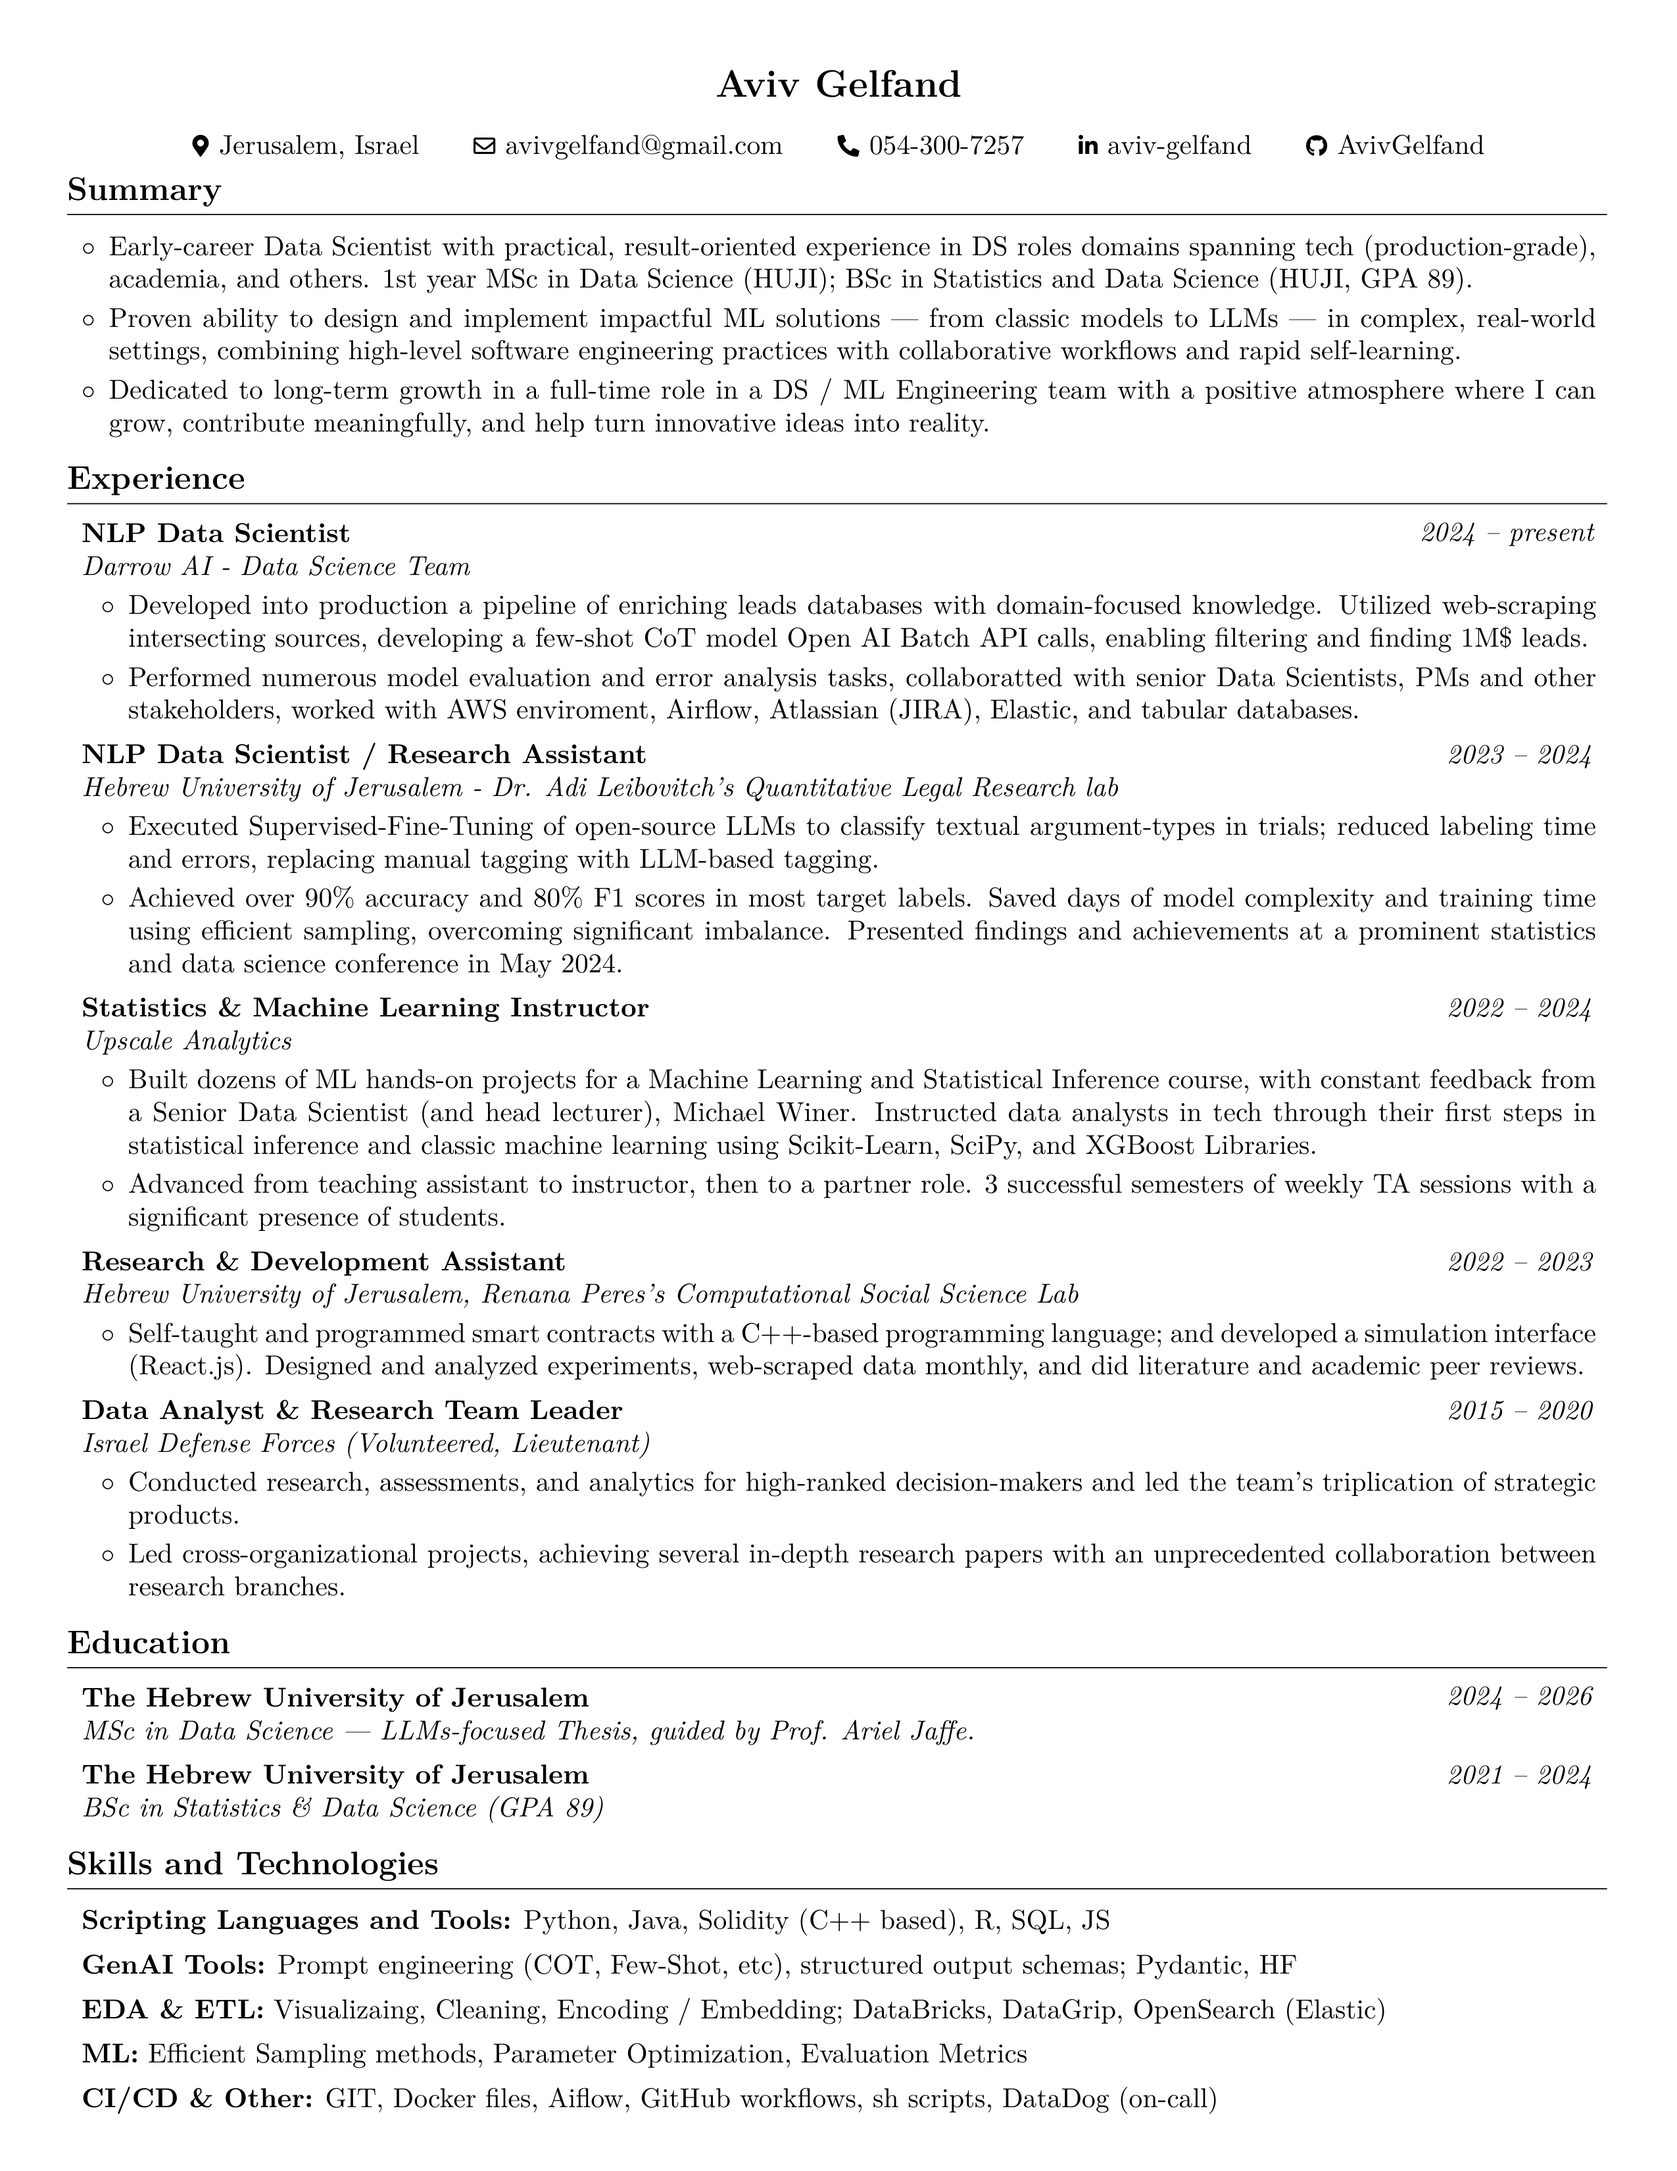
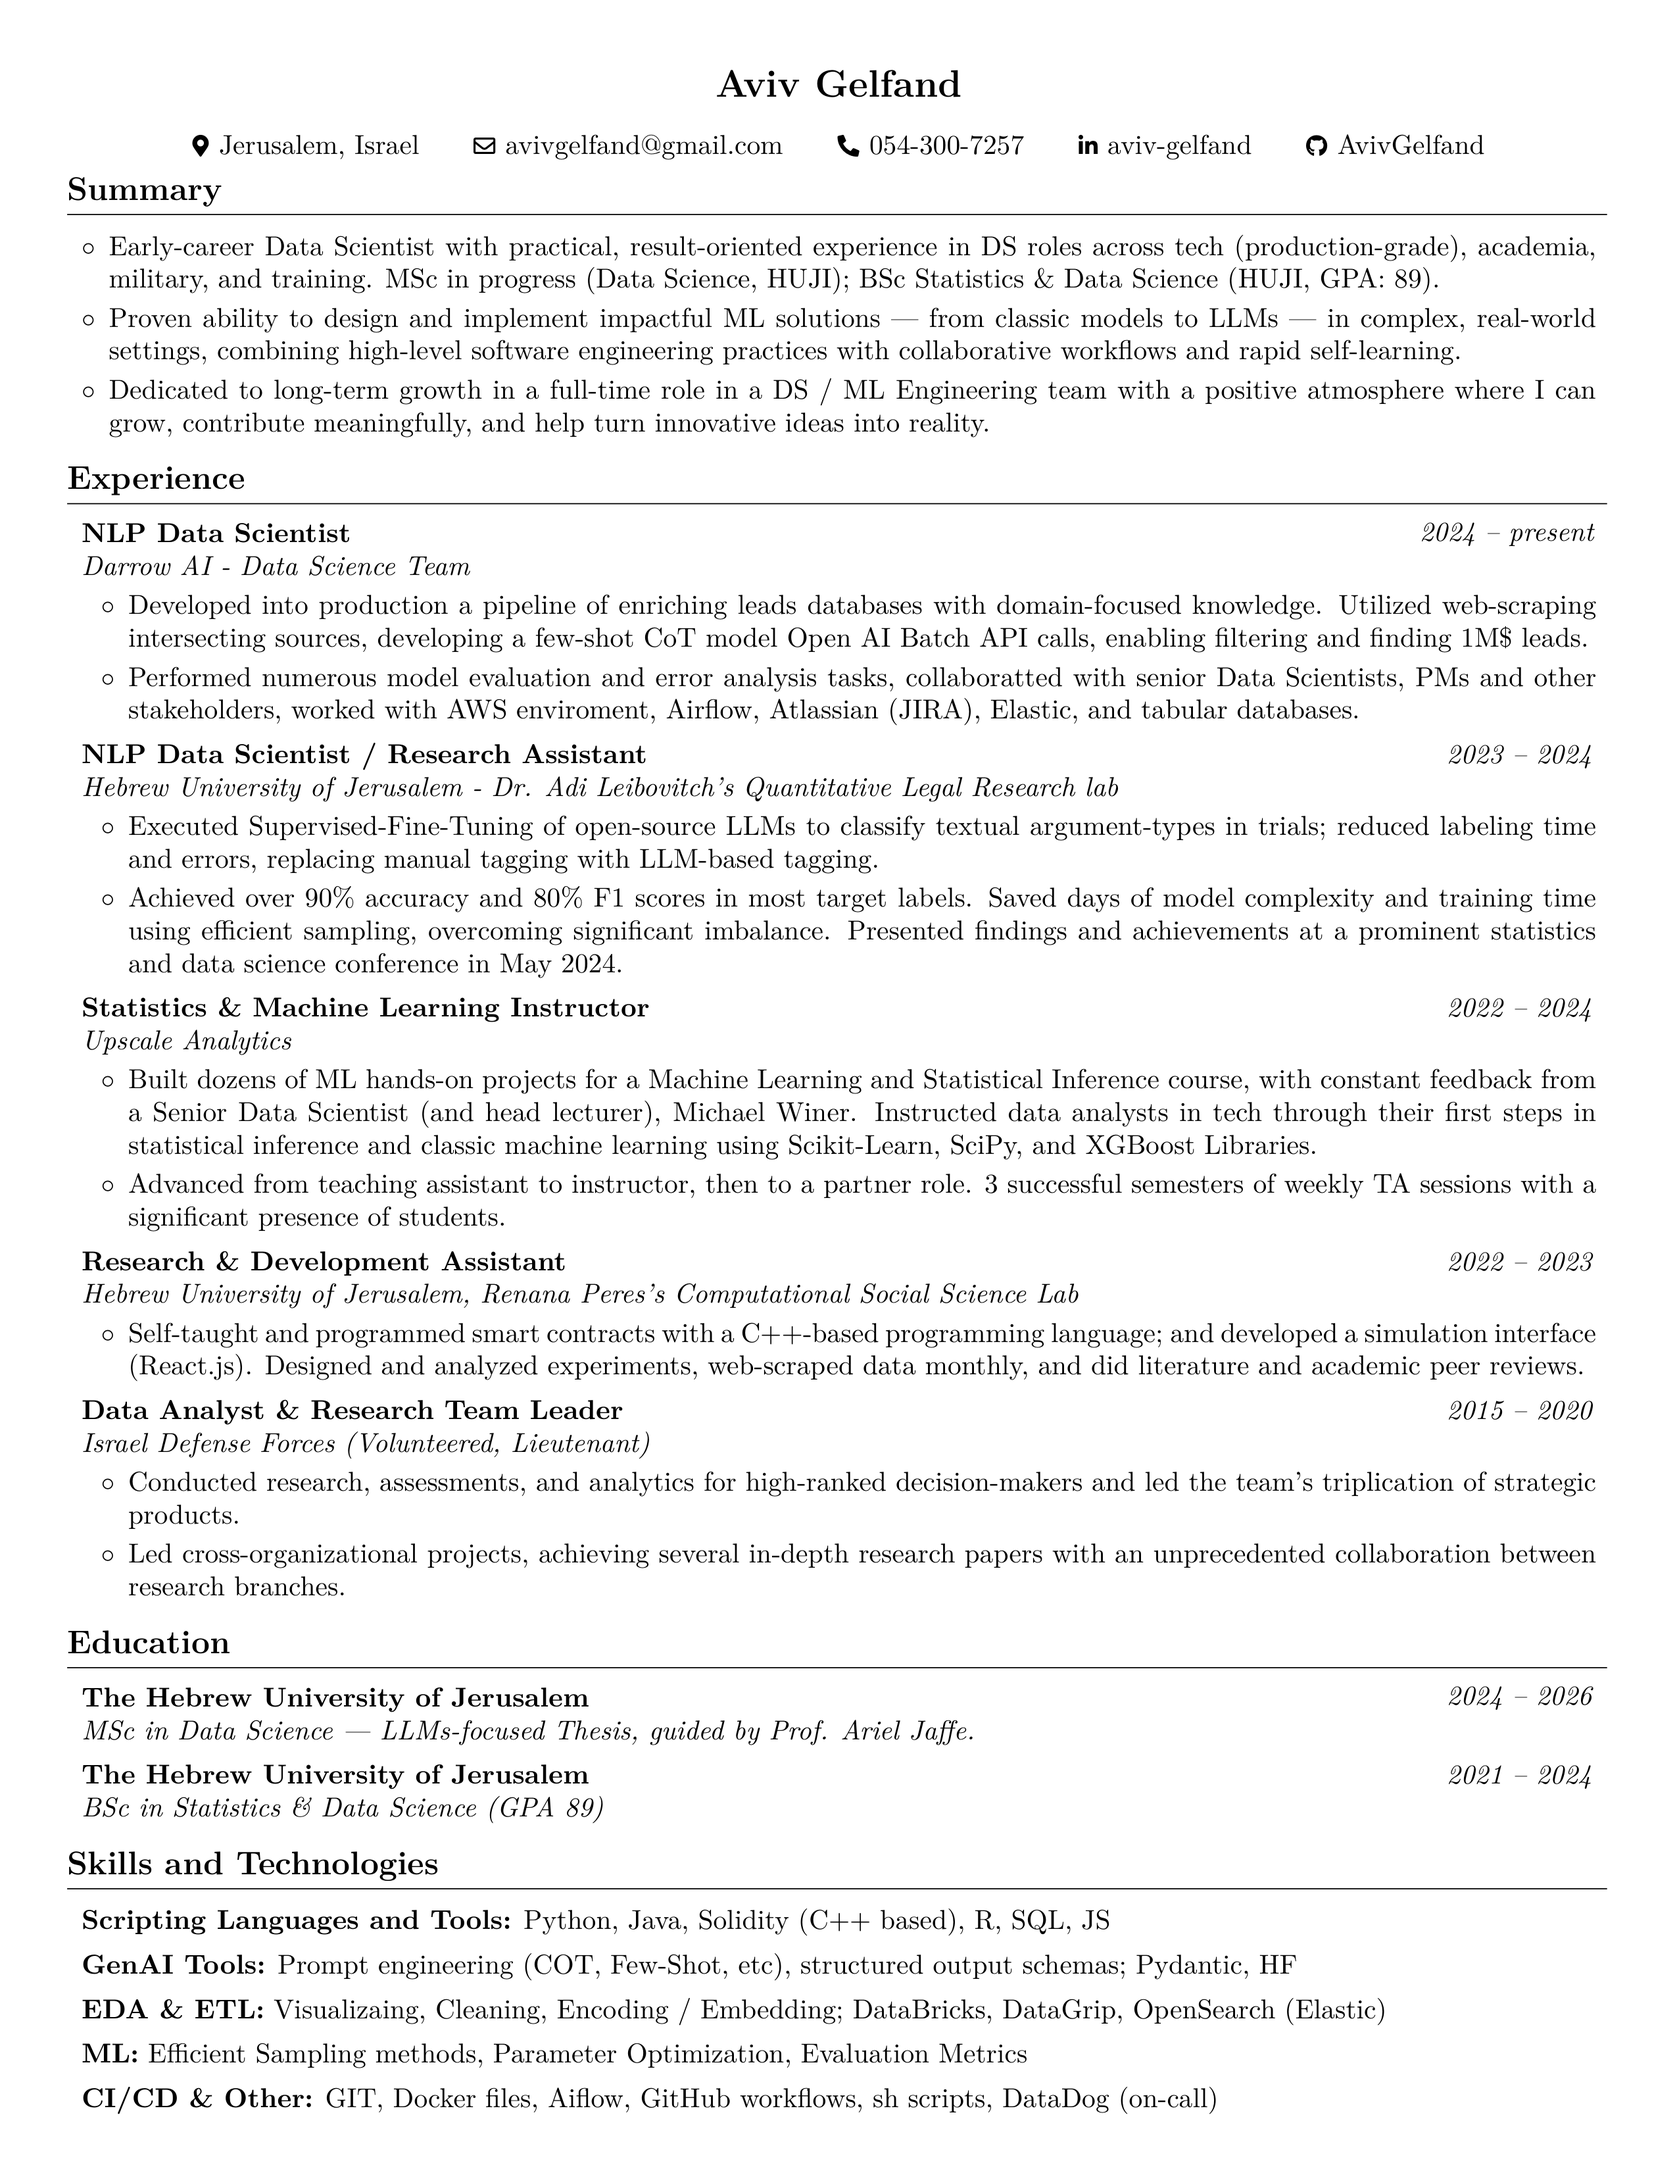
Render the latest CV

diff --git a/Aviv_Gelfand_CV.html b/Aviv_Gelfand_CV.html
@@ -42,7 +42,7 @@
         </ul>
         <h1>Summary</h1>
         <ul>
-        <li>Early-career Data Scientist with practical, result-oriented experience in DS roles domains spanning tech (production-grade), academia, and others. 1st year MSc in Data Science (HUJI); BSc in Statistics and Data Science (HUJI, GPA 89).</li>
+        <li>Early-career Data Scientist with practical, result-oriented experience in DS roles across tech (production-grade), academia, military, and training. MSc in progress (Data Science, HUJI); BSc Statistics &amp; Data Science (HUJI, GPA: 89).</li>
         <li>Proven ability to design and implement impactful ML solutions — from classic models to LLMs — in complex, real-world settings, combining high-level software engineering practices with collaborative workflows and rapid self-learning.</li>
         <li>Dedicated to long-term growth in a full-time role in a DS / ML Engineering team with a positive atmosphere where I can grow, contribute meaningfully, and help turn innovative ideas into reality.</li>
         </ul>

diff --git a/Aviv_Gelfand_CV.tex b/Aviv_Gelfand_CV.tex
@@ -181,7 +181,7 @@
         \begin{highlightsforbulletentries}
 
 
-        \item Early-career Data Scientist with practical, result-oriented experience in DS roles domains spanning tech (production-grade), academia, and others. 1st year MSc in Data Science (HUJI); BSc in Statistics and Data Science (HUJI, GPA 89).
+        \item Early-career Data Scientist with practical, result-oriented experience in DS roles across tech (production-grade), academia, military, and training. MSc in progress (Data Science, HUJI); BSc Statistics \& Data Science (HUJI, GPA: 89).
 
         \item Proven ability to design and implement impactful ML solutions — from classic models to LLMs — in complex, real-world settings, combining high-level software engineering practices with collaborative workflows and rapid self-learning.
 

diff --git a/README.md b/README.md
@@ -11,7 +11,7 @@
 
 # Summary
 
-- Early-career Data Scientist with practical, result-oriented experience in DS roles domains spanning tech (production-grade), academia, and others. 1st year MSc in Data Science (HUJI); BSc in Statistics and Data Science (HUJI, GPA 89).
+- Early-career Data Scientist with practical, result-oriented experience in DS roles across tech (production-grade), academia, military, and training. MSc in progress (Data Science, HUJI); BSc Statistics & Data Science (HUJI, GPA: 89).
 - Proven ability to design and implement impactful ML solutions — from classic models to LLMs — in complex, real-world settings, combining high-level software engineering practices with collaborative workflows and rapid self-learning.
 - Dedicated to long-term growth in a full-time role in a DS / ML Engineering team with a positive atmosphere where I can grow, contribute meaningfully, and help turn innovative ideas into reality.
 # Experience
